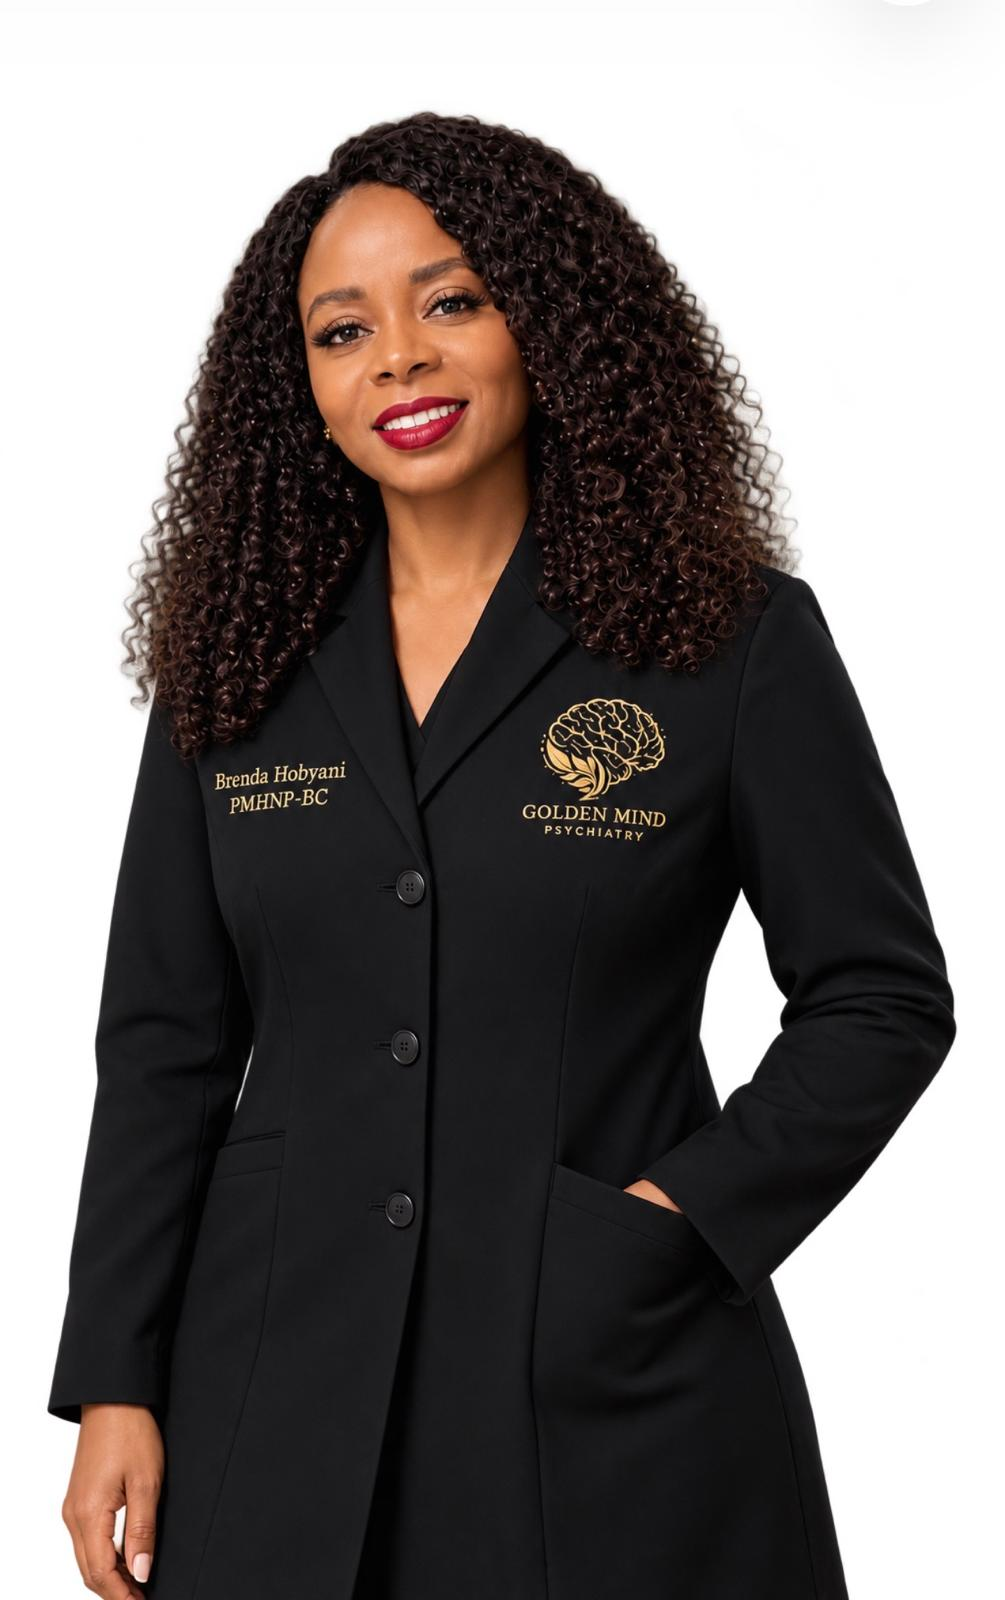
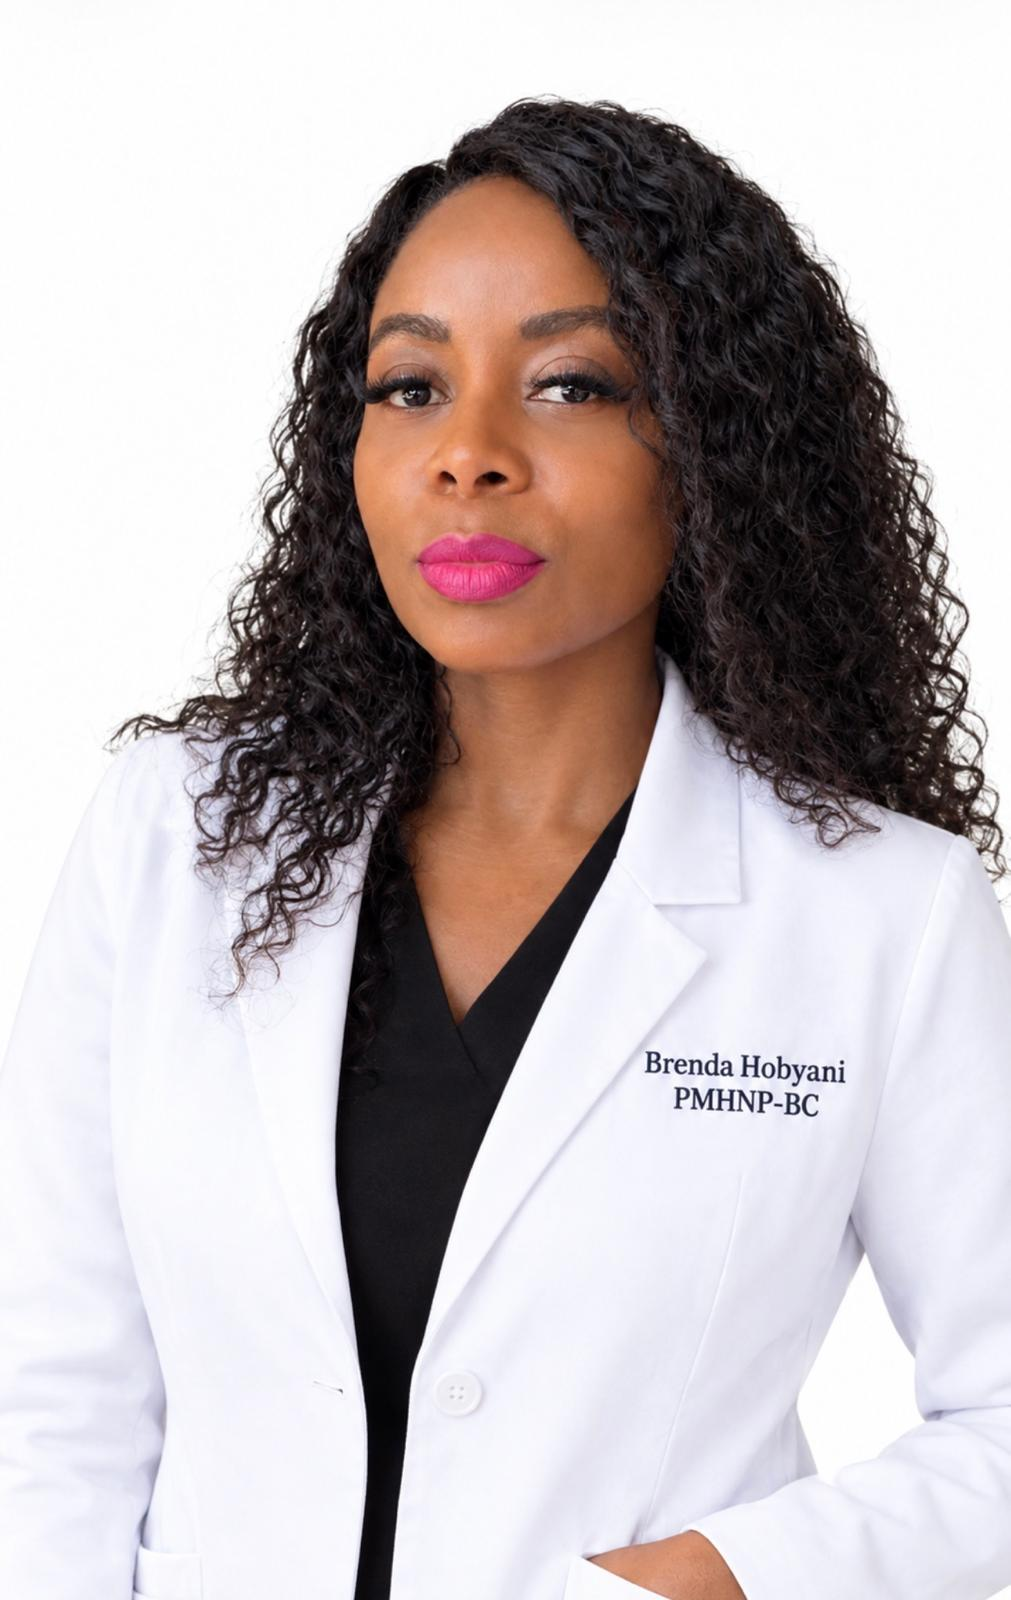
feat: add substance abuse and neurodevelopmental services
Expand service offerings to include Substance Abuse/Addiction treatment and Neurodevelopmental Disorders (ASD/IDD) support. Update provider profile, FAQ content, and image assets to reflect expanded care capabilities.

diff --git a/src/data/conditions.ts b/src/data/conditions.ts
@@ -518,5 +518,159 @@ export const conditionsData: Condition[] = [
         answer: 'Frequently, yes. When sleep, gut health, nutrient status, and stress resilience improve, many patients find they require lower medication dosages or experience fewer side effects.'
       }
     ]
+  },
+  {
+    id: 'substance-abuse-addiction',
+    name: 'Substance Abuse and Addiction',
+    tagline: 'Compassionate, judgment-free psychiatric care supporting lasting recovery and emotional stability.',
+    shortDescription: 'Evidence-based dual-diagnosis psychiatric evaluations and medication management for substance use disorders and co-occurring mental health conditions.',
+    overview: 'Substance abuse and addiction are complex neurobiological and emotional conditions—often deeply intertwined with underlying anxiety, depression, trauma, or untreated ADHD. At Golden Mind Psychiatry PLLC, Brenda Hobyani, PMHNP-BC provides a safe, stigma-free telehealth environment where patients receive comprehensive dual-diagnosis care that treats both the addiction and the root mental health drivers simultaneously.',
+    symptoms: [
+      'Difficulty cutting back or controlling substance or alcohol use despite wanting to stop',
+      'Using substances to self-medicate chronic anxiety, insomnia, trauma, or emotional pain',
+      'Experiencing cravings, tolerance shifts, or mood instability between uses',
+      'Disruptions in work, family relationships, or daily responsibilities',
+      'Co-occurring symptoms of depression, panic, irritability, or emotional exhaustion'
+    ],
+    causesAndTriggers: [
+      'Neurochemical changes in the brain’s dopamine reward and prefrontal impulse-control pathways',
+      'Unaddressed trauma, PTSD, or chronic emotional stress',
+      'Underlying mood, anxiety, or neurodevelopmental conditions leading to self-medication',
+      'Genetic and familial vulnerability to substance use disorders'
+    ],
+    treatmentApproach: [
+      {
+        title: 'Comprehensive Dual-Diagnosis Evaluation',
+        description: 'Thorough assessment of both substance use patterns and co-occurring psychiatric conditions such as depression, bipolar disorder, PTSD, or ADHD.'
+      },
+      {
+        title: 'Targeted Pharmacotherapy & Craving Support',
+        description: 'Evidence-based non-addictive medications to help reduce cravings, stabilize mood, restore sleep architecture, and support relapse prevention.'
+      },
+      {
+        title: 'Ongoing Compassionate Telehealth Follow-Up',
+        description: 'Consistent, confidential virtual check-ins across Texas to monitor recovery progress, adjust treatment, and celebrate milestones.'
+      }
+    ],
+    medicationInfo: 'We utilize safe, non-habit-forming psychiatric medications tailored to stabilize mood and anxiety while offering evidence-based pharmacotherapy options that reduce cravings and support sustained recovery.',
+    holisticSupport: [
+      'Relapse prevention planning and trigger identification strategies',
+      'Sleep and nutritional restoration protocols to support brain recovery',
+      'Collaborative coordination with addiction counselors, therapists, and recovery groups',
+      'Stress regulation and nervous system grounding practices'
+    ],
+    faqs: [
+      {
+        question: 'What is dual-diagnosis psychiatric care?',
+        answer: 'Dual-diagnosis care treats both a substance use disorder and a co-occurring mental health condition (like depression, anxiety, or PTSD) at the same time, which significantly improves long-term recovery outcomes.'
+      },
+      {
+        question: 'Are substance abuse consultations confidential?',
+        answer: 'Yes. All evaluations and follow-up visits are conducted via our encrypted, HIPAA-compliant telehealth platform from the privacy of your home.'
+      }
+    ]
+  },
+  {
+    id: 'neurodevelopmental-disorders',
+    name: 'Neurodevelopmental Disorders (ASD & Intellectual Developmental Disorder)',
+    tagline: 'Affirming, individualized psychiatric care for Autism Spectrum Disorders (ASD) and Intellectual Developmental Disorder.',
+    shortDescription: 'Specialized psychiatric evaluations and supportive symptom management for Autism Spectrum Disorders (ASD) and Intellectual Developmental Disorder.',
+    overview: 'Neurodevelopmental disorders—including Autism Spectrum Disorders (ASD) and Intellectual Developmental Disorder (IDD)—involve unique patterns of brain development that shape communication, sensory processing, social interaction, and adaptive functioning. Brenda Hobyani, PMHNP-BC delivers patient-centered, respectful care focused on enhancing quality of life, easing sensory or emotional overwhelm, and treating co-occurring anxiety, mood shifts, or sleep difficulties.',
+    symptoms: [
+      'Differences in social communication, non-verbal cues, and interpersonal connection',
+      'Heightened sensory sensitivities to sound, light, textures, or routine changes',
+      'Emotional dysregulation, meltdowns, or severe irritability when overwhelmed',
+      'Adaptive functioning or cognitive processing challenges requiring tailored support',
+      'Co-occurring anxiety, repetitive behaviors, ADHD symptoms, or chronic sleep disturbances'
+    ],
+    causesAndTriggers: [
+      'Complex genetic and neurobiological variations in early brain connectivity',
+      'Sensory overload and abrupt transitions in daily environments',
+      'Unrecognized medical, communication, or emotional frustrations',
+      'Co-occurring neurotransmitter imbalances affecting sleep and anxiety pathways'
+    ],
+    treatmentApproach: [
+      {
+        title: 'Neurodiversity-Affirming Psychiatric Assessment',
+        description: 'Comprehensive evaluation involving both the patient and their family or caregivers to understand strengths, sensory needs, and specific clinical challenges.'
+      },
+      {
+        title: 'Conservative, Targeted Symptom Management',
+        description: 'Careful, low-dose pharmacotherapy when indicated to help ease severe irritability, anxiety, hyperactivity, or sleep difficulties while respecting the individual’s baseline personality.'
+      },
+      {
+        title: 'Family & Caregiver Partnership',
+        description: 'Ongoing collaboration with parents, families, and support networks to create predictable, supportive routines at home and school.'
+      }
+    ],
+    medicationInfo: 'While medication does not treat the core identity of autism or intellectual developmental disorders, FDA-approved and evidence-based medications can safely relieve co-occurring symptoms such as severe irritability, anxiety, attentional difficulties, and insomnia.',
+    holisticSupport: [
+      'Sensory-friendly daily routine structuring and transition support',
+      'Sleep architecture and circadian rhythm stabilization strategies',
+      'Coordination with behavioral therapists, speech/occupational therapy, and school IEP teams',
+      'Nutritional and gut-brain support tailored to sensory food preferences'
+    ],
+    faqs: [
+      {
+        question: 'Why is telehealth beneficial for patients with ASD or neurodevelopmental disorders?',
+        answer: 'Telehealth allows patients to be evaluated in their own familiar, sensory-safe home environment without the stress of unfamiliar waiting rooms, bright lights, or travel.'
+      },
+      {
+        question: 'Do you work with both youth and adults with ASD and Intellectual Developmental Disorder?',
+        answer: 'Yes. We provide compassionate evaluations and ongoing medication management for children, adolescents, and adults across the neurodevelopmental spectrum.'
+      }
+    ]
+  },
+  {
+    id: 'pharmacogenomic-testing',
+    name: 'Pharmacogenomic Testing',
+    tagline: 'DNA-guided precision psychiatry to reduce trial and error and promote safer, more effective care.',
+    shortDescription: 'Pharmacogenomic testing analyzes a patient’s DNA to identify genetic variations that may influence responses to psychiatric medications.',
+    overview: 'Pharmacogenomic testing analyzes a patient’s DNA to identify genetic variations that may influence responses to psychiatric medications used to treat depression, anxiety, ADHD, bipolar disorder, schizophrenia, epilepsy, and other neurological conditions. By identifying how the body may metabolize certain medications, testing can help guide personalized treatment decisions, support medication selection, and reduce trial and error to promote safer, more effective care.',
+    symptoms: [
+      'History of experiencing unwanted side effects from standard psychiatric medication doses',
+      'Previous antidepressants, anxiety medications, or ADHD treatments feeling ineffective',
+      'Desire to avoid months of medication trial and error before finding relief',
+      'Complex treatment history across depression, anxiety, bipolar disorder, or neurological conditions',
+      'Sensitivity to medication dose changes or concerns about drug-gene interactions'
+    ],
+    causesAndTriggers: [
+      'Inherited variations in liver cytochrome P450 (CYP450) metabolic enzymes',
+      'Genetic differences in neurotransmitter receptor sensitivity and transporter proteins',
+      'Ultra-rapid, intermediate, or poor metabolizer genetic profiles affecting blood medication levels',
+      'Variations in folic acid conversion pathways (such as MTHFR gene variants)'
+    ],
+    treatmentApproach: [
+      {
+        title: 'Simple At-Home DNA Cheek Swab',
+        description: 'A painless, non-invasive buccal cheek swab kit can be shipped directly to your home anywhere in Texas and returned in a prepaid mailer.'
+      },
+      {
+        title: 'Comprehensive Genetic & Metabolic Analysis',
+        description: 'Analyzes key pharmacokinetic and pharmacodynamic genes that influence how your body processes medications for depression, anxiety, ADHD, bipolar disorder, schizophrenia, and epilepsy.'
+      },
+      {
+        title: 'Personalized Medication Roadmap Review',
+        description: 'Brenda Hobyani, PMHNP-BC reviews your detailed genetic report with you during a telehealth consultation to select medications aligned with your unique DNA profile.'
+      }
+    ],
+    medicationInfo: 'Your pharmacogenomic report categorizes psychiatric and neurological medications into clear green, yellow, and red tiers based on your gene-drug interactions, helping guide precise dosing and safer medication selection.',
+    holisticSupport: [
+      'Identification of MTHFR gene variations to guide targeted L-methylfolate supplementation',
+      'Long-term genetic reference report that remains valid for your lifetime',
+      'Reduced risk of adverse medication reactions and faster time to symptom stabilization',
+      'Empowered, transparent shared decision-making in your psychiatric care'
+    ],
+    faqs: [
+      {
+        question: 'How is pharmacogenomic testing performed via telehealth?',
+        answer: 'After your telehealth visit with Brenda Hobyani, PMHNP-BC, a sterile cheek-swab DNA collection kit is mailed directly to your home. You simply swab the inside of your cheek, place it in the prepaid return envelope, and we review the results together at your follow-up video visit.'
+      },
+      {
+        question: 'Which conditions can pharmacogenomic testing help with?',
+        answer: 'Pharmacogenomic testing helps guide medication decisions for depression, anxiety, ADHD, bipolar disorder, schizophrenia, epilepsy, and other psychiatric and neurological conditions.'
+      }
+    ]
   }
 ];
+

diff --git a/src/data/services.ts b/src/data/services.ts
@@ -85,5 +85,47 @@ export const servicesData: Service[] = [
       'Coordination with pediatricians and school accommodation teams (504/IEP)',
       'Practical parental co-regulation guidance'
     ]
+  },
+  {
+    id: 'substance-abuse-addiction',
+    name: 'Substance Abuse and Addiction',
+    shortDesc: 'Compassionate, non-judgmental psychiatric care and dual-diagnosis support for substance use recovery.',
+    serviceCategory: 'Addiction & Recovery Care',
+    iconName: 'Shield',
+    details: 'Comprehensive outpatient psychiatric evaluations and evidence-based treatment for individuals navigating substance abuse, alcohol use, and co-occurring mental health conditions. We address both the neurobiological drivers of addiction and underlying mood, trauma, or anxiety disorders in a dignified, confidential telehealth setting.',
+    benefits: [
+      'Dual-diagnosis evaluation addressing co-occurring depression, anxiety, PTSD, or bipolar disorder',
+      'Evidence-based pharmacotherapy to help reduce cravings and support relapse prevention',
+      'Stigma-free, confidential 100% telehealth follow-ups across Texas',
+      'Integrated recovery planning supporting long-term emotional and neurological stability'
+    ]
+  },
+  {
+    id: 'neurodevelopmental-disorders',
+    name: 'Neurodevelopmental Disorders (ASD & Intellectual Developmental Disorder)',
+    shortDesc: 'Specialized psychiatric evaluations and supportive care for Autism Spectrum Disorders (ASD) and Intellectual Developmental Disorder.',
+    serviceCategory: 'Neurodevelopmental Care',
+    iconName: 'Brain',
+    details: 'Individualized, neurodiversity-affirming psychiatric evaluations and symptom management for Neurodevelopmental Disorders such as Autism Spectrum Disorders (ASD) and Intellectual Developmental Disorder. We partner closely with patients, families, and caregivers to support emotional regulation, sensory distress, sleep, and co-occurring psychiatric symptoms.',
+    benefits: [
+      'Comprehensive evaluation for Autism Spectrum Disorders (ASD) and Intellectual Developmental Disorder',
+      'Targeted, conservative medication management for irritability, anxiety, sleep challenges, and focus',
+      'Collaborative care planning with families, caregivers, and educational or support teams',
+      'Compassionate telehealth appointments from the familiar comfort of home'
+    ]
+  },
+  {
+    id: 'pharmacogenomic-testing',
+    name: 'Pharmacogenomic Testing',
+    shortDesc: 'DNA-guided genetic analysis to personalize psychiatric medication selection and reduce trial and error.',
+    serviceCategory: 'Precision DNA Testing',
+    iconName: 'Dna',
+    details: 'Pharmacogenomic testing analyzes a patient’s DNA to identify genetic variations that may influence responses to psychiatric medications used to treat depression, anxiety, ADHD, bipolar disorder, schizophrenia, epilepsy, and other neurological conditions.\n\nBy identifying how the body may metabolize certain medications, testing can help guide personalized treatment decisions, support medication selection, and reduce trial and error to promote safer, more effective care.',
+    benefits: [
+      'Analyzes DNA genetic variations influencing responses to psychiatric and neurological medications',
+      'Supports personalized treatment for depression, anxiety, ADHD, bipolar disorder, schizophrenia, and epilepsy',
+      'Identifies how your body metabolizes specific medications to minimize side effects',
+      'Reduces medication trial and error to promote safer, more effective care'
+    ]
   }
 ];

diff --git a/src/pages/HomePage.tsx b/src/pages/HomePage.tsx
@@ -29,7 +29,10 @@ export const HomePage: React.FC<HomePageProps> = ({ onNavigate, onOpenBooking })
   const quickConditionTags = [
     { label: 'Psychiatric Evaluations', page: 'services', id: 'psychiatric-evaluations' },
     { label: 'Medication Management', page: 'services', id: 'medication-management' },
+    { label: 'Pharmacogenomic Testing', page: 'condition-detail', id: 'pharmacogenomic-testing' },
     { label: 'ADHD', page: 'condition-detail', id: 'adhd' },
+    { label: 'Substance Abuse & Addiction', page: 'condition-detail', id: 'substance-abuse-addiction' },
+    { label: 'Neurodevelopmental (ASD & IDD)', page: 'condition-detail', id: 'neurodevelopmental-disorders' },
     { label: 'Women\'s Mental Health', page: 'condition-detail', id: 'womens-mental-health' },
     { label: 'Child & Adolescent', page: 'condition-detail', id: 'child-adolescent' },
     { label: 'Anxiety & Stress', page: 'condition-detail', id: 'anxiety-stress' },
@@ -242,9 +245,11 @@ export const HomePage: React.FC<HomePageProps> = ({ onNavigate, onOpenBooking })
                     'Major & Persistent Depression',
                     'Bipolar & Mood Spectrum Disorders',
                     'PTSD & Trauma Recovery',
+                    'Substance Abuse and Addiction',
+                    'Neurodevelopmental Disorders (ASD & IDD)',
+                    'Pharmacogenomic DNA Testing',
                     'Women\'s Reproductive Mental Health',
-                    'Comprehensive Psychiatric Evaluations',
-                    'Telehealth Video Appointments'
+                    'Comprehensive Psychiatric Evaluations'
                   ].map((spec, i) => (
                     <div key={i} className="flex items-center gap-2">
                       <CheckCircle className="w-4 h-4 text-[#B8860B] shrink-0" />

diff --git a/src/data/provider.ts b/src/data/provider.ts
@@ -19,6 +19,9 @@ export const providerBrenda: ProviderProfile = {
   specialties: [
     'Adult & Adolescent Psychiatric Evaluations',
     'Precision Medication Management & Optimization',
+    'Pharmacogenomic DNA Testing',
+    'Substance Abuse and Addiction',
+    'Neurodevelopmental Disorders (ASD & IDD)',
     'ADHD Diagnostic Testing & Executive Support',
     'Depression, Anxiety & Panic Disorders',
     'Trauma-Informed PTSD Recovery',

diff --git a/src/pages/ServicesPage.tsx b/src/pages/ServicesPage.tsx
@@ -52,7 +52,7 @@ export const ServicesPage: React.FC<ServicesPageProps> = ({ onNavigate, onOpenBo
                   {service.name}
                 </h2>
 
-                <p className="text-xs sm:text-sm text-[#44403C] leading-relaxed font-light">
+                <p className="text-xs sm:text-sm text-[#44403C] leading-relaxed font-light whitespace-pre-line">
                   {service.details}
                 </p>
 
